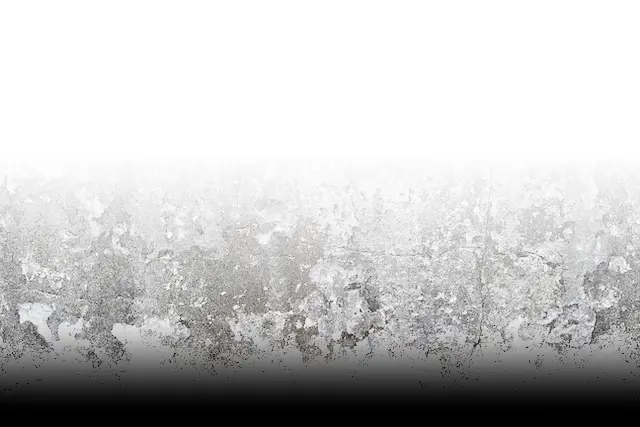
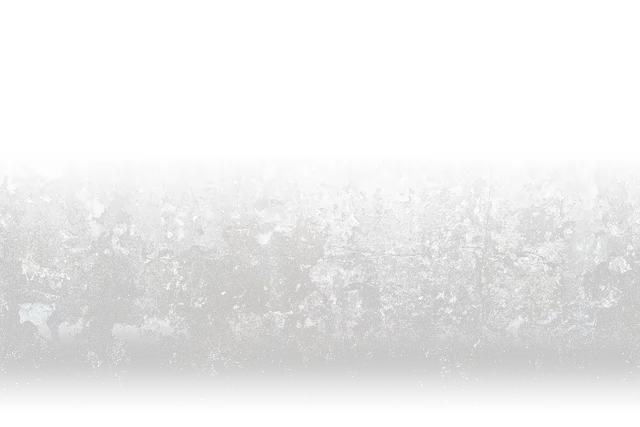
use opacity based masks for unsafe reality theme

diff --git a/src/themes/unsafeRealityTheme.ts b/src/themes/unsafeRealityTheme.ts
@@ -45,7 +45,6 @@ export const unsafeRealityTheme: ThemeV1 = themeFactory({
     frontTextElementStyle: {
       color: yellow,
       maskImage: `url(systems/${systemId}/assets/wallpaper/grunge-gradient.webp)`,
-      maskMode: "luminance",
       maskRepeat: "no-repeat",
       maskSize: "100% 100%",
       maskOrigin: "border-box",
@@ -73,7 +72,6 @@ export const unsafeRealityTheme: ThemeV1 = themeFactory({
         linear-gradient(to bottom, ${darkOrange} 0%, ${orange} 100%)
       `,
       maskImage: `url(systems/${systemId}/assets/wallpaper/esoterica.webp)`,
-      maskMode: "luminance",
       maskRepeat: "no-repeat",
       maskSize: "contain",
       maskPosition: "50% 10%",
